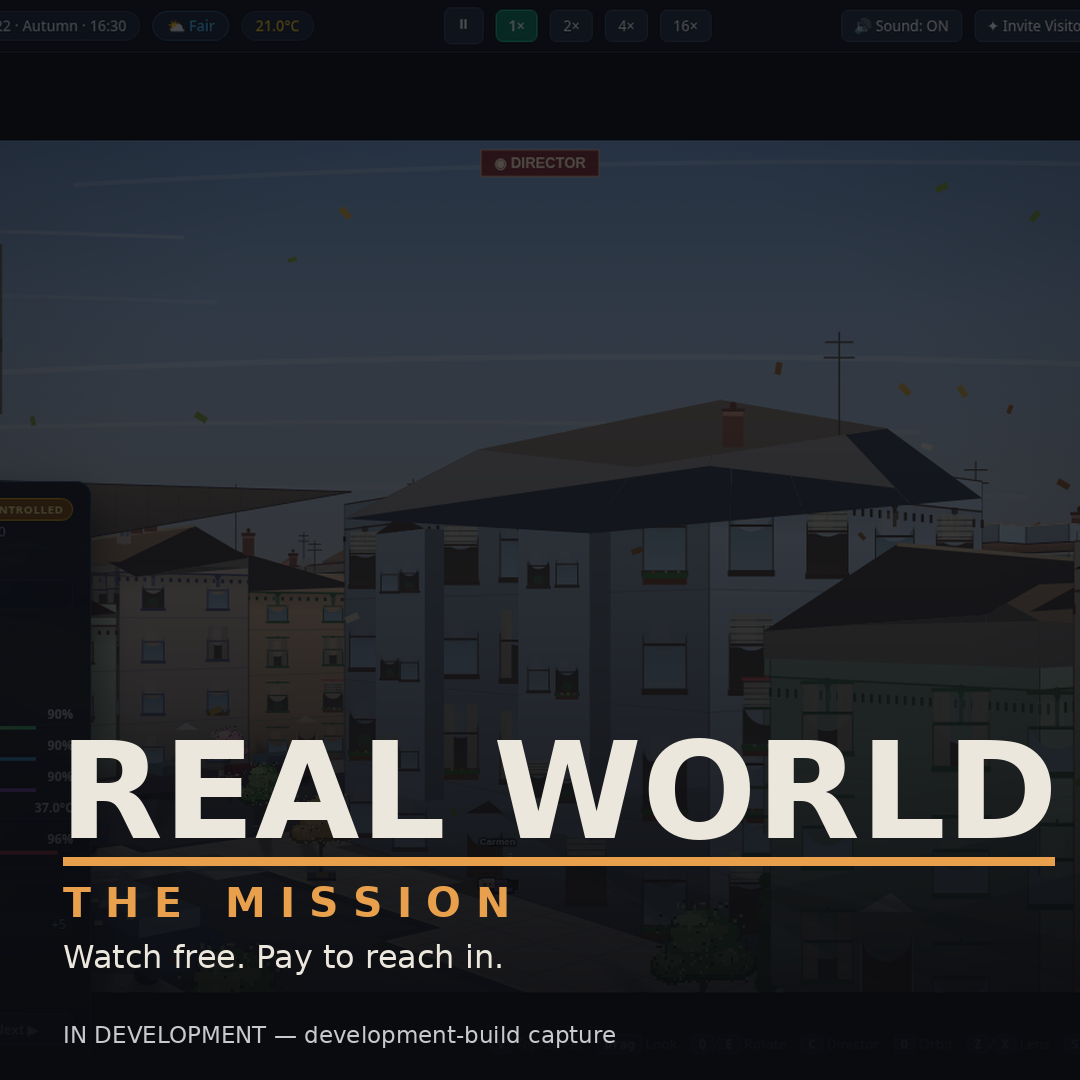
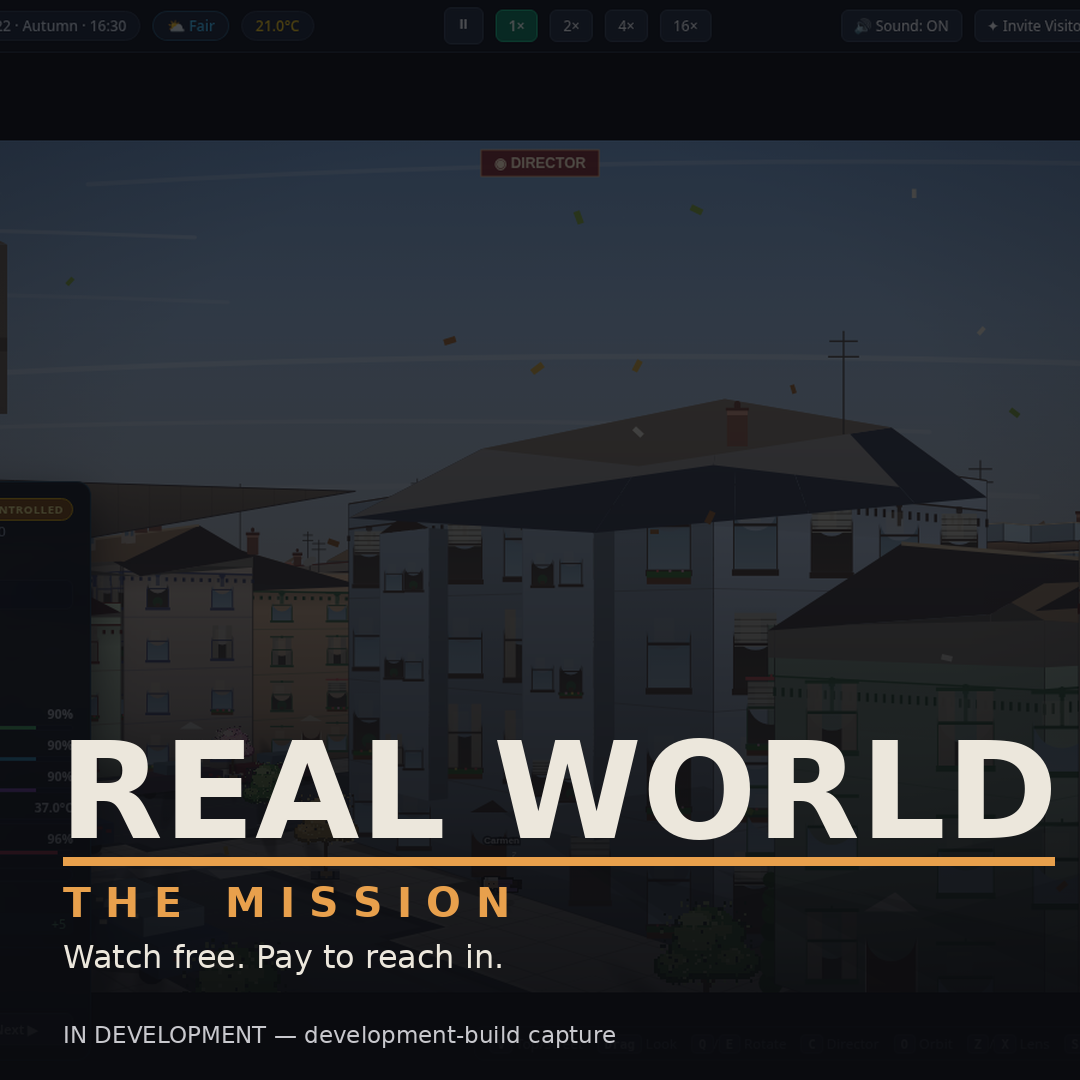
mkt v18: store-copy capsule set + v19 art refresh

diff --git a/marketing/site/index.html b/marketing/site/index.html
@@ -89,7 +89,7 @@
       </div>
     </div>
     <div>
-      <picture><source srcset="shots/v18-D.webp" type="image/webp"><img src="shots/v18-D.png" width="1440" height="900" fetchpriority="high" alt="Director-mode shot over a Mission District block — Victorian rooftops and water towers, development build"></picture>
+      <picture><source srcset="shots/v19-D.webp" type="image/webp"><img src="shots/v19-D.png" width="1440" height="900" fetchpriority="high" alt="Director-mode shot over a Mission District block — Victorian rooftops and water towers, development build"></picture>
       <p class="caption">Director-mode view over the block. Pre-release development build; interface shown is a placeholder.</p>
     </div>
   </div>
@@ -180,10 +180,10 @@
     <h2>The block, as it looks today.</h2>
     <p class="muted">Real captures from the current development build (top-down, follow-cam, director, and interior vignettes) — plus two shots from the first art pass for contrast. Interface elements are placeholder.</p>
     <div class="gallery">
-      <figure><picture><source srcset="shots/v18-A.webp" type="image/webp"><img src="shots/v18-A.png" width="1440" height="900" loading="lazy" decoding="async" alt="Top-down view of the neighborhood around the café block, development build"></picture><figcaption>Top-down over the café block — real street grid, generated addresses.</figcaption></figure>
-      <figure><picture><source srcset="shots/v18-B.webp" type="image/webp"><img src="shots/v18-B.png" width="1440" height="900" loading="lazy" decoding="async" alt="Street-level follow camera behind a resident walking, development build"></picture><figcaption>Follow-cam at street level — residents on their afternoon routines.</figcaption></figure>
-      <figure><picture><source srcset="shots/v18-C.webp" type="image/webp"><img src="shots/v18-C.png" width="1440" height="900" loading="lazy" decoding="async" alt="Top-down view over Dolores Park with paths and palms, development build"></picture><figcaption>Dolores Park from above — the block's back yard.</figcaption></figure>
-      <figure><picture><source srcset="shots/v18-D.webp" type="image/webp"><img src="shots/v18-D.png" width="1440" height="900" loading="lazy" decoding="async" alt="Director-mode low angle over Victorian rooftops, development build"></picture><figcaption>Director mode — the camera treats the neighborhood like a set.</figcaption></figure>
+      <figure><picture><source srcset="shots/v19-A.webp" type="image/webp"><img src="shots/v19-A.png" width="1440" height="900" loading="lazy" decoding="async" alt="Top-down view of the neighborhood around the café block, development build"></picture><figcaption>Top-down over the café block — real street grid, generated addresses.</figcaption></figure>
+      <figure><picture><source srcset="shots/v19-B.webp" type="image/webp"><img src="shots/v19-B.png" width="1440" height="900" loading="lazy" decoding="async" alt="Street-level follow camera behind a resident walking, development build"></picture><figcaption>Follow-cam at street level — residents on their afternoon routines.</figcaption></figure>
+      <figure><picture><source srcset="shots/v19-C.webp" type="image/webp"><img src="shots/v19-C.png" width="1440" height="900" loading="lazy" decoding="async" alt="Top-down view over Dolores Park with paths and palms, development build"></picture><figcaption>Dolores Park from above — the block's back yard.</figcaption></figure>
+      <figure><picture><source srcset="shots/v19-D.webp" type="image/webp"><img src="shots/v19-D.png" width="1440" height="900" loading="lazy" decoding="async" alt="Director-mode low angle over Victorian rooftops, development build"></picture><figcaption>Director mode — the camera treats the neighborhood like a set.</figcaption></figure>
       <figure><picture><source srcset="shots/v16-int-cafe.webp" type="image/webp"><img src="shots/v16-int-cafe.png" width="1440" height="900" loading="lazy" decoding="async" alt="Interior vignette of a corner café — counter, shelves, sun shafts through the window, development build"></picture><figcaption>Inside the café — interior vignettes render behind the storefront glass.</figcaption></figure>
       <figure><picture><source srcset="shots/v16-int-flat.webp" type="image/webp"><img src="shots/v16-int-flat.png" width="1440" height="900" loading="lazy" decoding="async" alt="Interior vignette of a residential flat — furniture and lamplight, development build"></picture><figcaption>A flat interior — where the residents actually live.</figcaption></figure>
       <figure><picture><source srcset="shots/v1-A.webp" type="image/webp"><img src="shots/v1-A.png" width="1440" height="900" loading="lazy" decoding="async" alt="Early first art pass, top-down, development build"></picture><figcaption>First art pass, same overhead angle — kept honest for comparison.</figcaption></figure>

diff --git a/marketing/site/press-kit.html b/marketing/site/press-kit.html
@@ -137,10 +137,10 @@
     </div>
     <h3 style="margin-top:26px">Screenshots (development build)</h3>
     <div class="gallery">
-      <figure><picture><source srcset="shots/v18-A.webp" type="image/webp"><img src="shots/v18-A.png" width="1440" height="900" loading="lazy" decoding="async" alt="Top-down over the café block"></picture><figcaption>Top-down — the café block.</figcaption></figure>
-      <figure><picture><source srcset="shots/v18-B.webp" type="image/webp"><img src="shots/v18-B.png" width="1440" height="900" loading="lazy" decoding="async" alt="Street-level follow camera"></picture><figcaption>Street-level follow-cam.</figcaption></figure>
-      <figure><picture><source srcset="shots/v18-C.webp" type="image/webp"><img src="shots/v18-C.png" width="1440" height="900" loading="lazy" decoding="async" alt="Top-down over Dolores Park"></picture><figcaption>Dolores Park, overhead.</figcaption></figure>
-      <figure><picture><source srcset="shots/v18-D.webp" type="image/webp"><img src="shots/v18-D.png" width="1440" height="900" loading="lazy" decoding="async" alt="Director-mode view of the block"></picture><figcaption>Director mode — the block as film set.</figcaption></figure>
+      <figure><picture><source srcset="shots/v19-A.webp" type="image/webp"><img src="shots/v19-A.png" width="1440" height="900" loading="lazy" decoding="async" alt="Top-down over the café block"></picture><figcaption>Top-down — the café block.</figcaption></figure>
+      <figure><picture><source srcset="shots/v19-B.webp" type="image/webp"><img src="shots/v19-B.png" width="1440" height="900" loading="lazy" decoding="async" alt="Street-level follow camera"></picture><figcaption>Street-level follow-cam.</figcaption></figure>
+      <figure><picture><source srcset="shots/v19-C.webp" type="image/webp"><img src="shots/v19-C.png" width="1440" height="900" loading="lazy" decoding="async" alt="Top-down over Dolores Park"></picture><figcaption>Dolores Park, overhead.</figcaption></figure>
+      <figure><picture><source srcset="shots/v19-D.webp" type="image/webp"><img src="shots/v19-D.png" width="1440" height="900" loading="lazy" decoding="async" alt="Director-mode view of the block"></picture><figcaption>Director mode — the block as film set.</figcaption></figure>
       <figure><picture><source srcset="shots/v16-int-cafe.webp" type="image/webp"><img src="shots/v16-int-cafe.png" width="1440" height="900" loading="lazy" decoding="async" alt="Interior vignette of a corner café"></picture><figcaption>Interior vignette — the café.</figcaption></figure>
       <figure><picture><source srcset="shots/v16-int-flat.webp" type="image/webp"><img src="shots/v16-int-flat.png" width="1440" height="900" loading="lazy" decoding="async" alt="Interior vignette of a residential flat"></picture><figcaption>Interior vignette — a flat.</figcaption></figure>
     </div>

diff --git a/marketing/site/features.html b/marketing/site/features.html
@@ -78,9 +78,9 @@
       </div>
     </div>
     <div class="gallery" style="margin-top:22px">
-      <figure><picture><source srcset="shots/v18-A.webp" type="image/webp"><img src="shots/v18-A.png" width="1440" height="900" loading="lazy" decoding="async" alt="Top-down view of the café block"></picture><figcaption>The café block from above.</figcaption></figure>
-      <figure><picture><source srcset="shots/v18-C.webp" type="image/webp"><img src="shots/v18-C.png" width="1440" height="900" loading="lazy" decoding="async" alt="Top-down view of Dolores Park"></picture><figcaption>Dolores Park — where half the neighborhood's afternoons end up.</figcaption></figure>
-      <figure><picture><source srcset="shots/v18-B.webp" type="image/webp"><img src="shots/v18-B.png" width="1440" height="900" loading="lazy" decoding="async" alt="Street-level follow camera"></picture><figcaption>Street level, follow-cam.</figcaption></figure>
+      <figure><picture><source srcset="shots/v19-A.webp" type="image/webp"><img src="shots/v19-A.png" width="1440" height="900" loading="lazy" decoding="async" alt="Top-down view of the café block"></picture><figcaption>The café block from above.</figcaption></figure>
+      <figure><picture><source srcset="shots/v19-C.webp" type="image/webp"><img src="shots/v19-C.png" width="1440" height="900" loading="lazy" decoding="async" alt="Top-down view of Dolores Park"></picture><figcaption>Dolores Park — where half the neighborhood's afternoons end up.</figcaption></figure>
+      <figure><picture><source srcset="shots/v19-B.webp" type="image/webp"><img src="shots/v19-B.png" width="1440" height="900" loading="lazy" decoding="async" alt="Street-level follow camera"></picture><figcaption>Street level, follow-cam.</figcaption></figure>
       <figure><picture><source srcset="shots/v16-int-cafe.webp" type="image/webp"><img src="shots/v16-int-cafe.png" width="1440" height="900" loading="lazy" decoding="async" alt="Interior vignette of the corner café"></picture><figcaption>Interior vignette — the café where half the block's gossip routes.</figcaption></figure>
     </div>
   </div>

diff --git a/marketing/press-kit/index.html b/marketing/press-kit/index.html
@@ -98,10 +98,10 @@
 <section><div class="wrap">
   <h2>Screenshots — development build</h2>
   <div class="gallery">
-    <figure><img src="screenshots/v18-A.png" alt="Top-down over the café block"><figcaption>Top-down — the café block, murals and parody signage in.</figcaption></figure>
-    <figure><img src="screenshots/v18-B.png" alt="Street-level follow camera"><figcaption>Street-level follow-cam — polychrome trim, fire escapes.</figcaption></figure>
-    <figure><img src="screenshots/v18-C.png" alt="Top-down over Dolores Park"><figcaption>Dolores Park, overhead.</figcaption></figure>
-    <figure><img src="screenshots/v18-D.png" alt="Director-mode view of the block"><figcaption>Director mode — the block as film set.</figcaption></figure>
+    <figure><img src="screenshots/v19-A.png" alt="Top-down over the café block"><figcaption>Top-down — the café block, murals and parody signage in.</figcaption></figure>
+    <figure><img src="screenshots/v19-B.png" alt="Street-level follow camera"><figcaption>Street-level follow-cam — polychrome trim, fire escapes.</figcaption></figure>
+    <figure><img src="screenshots/v19-C.png" alt="Top-down over Dolores Park"><figcaption>Dolores Park, overhead.</figcaption></figure>
+    <figure><img src="screenshots/v19-D.png" alt="Director-mode view of the block"><figcaption>Director mode — the block as film set.</figcaption></figure>
     <figure><img src="screenshots/v16-int-cafe.png" alt="Interior vignette of a corner café"><figcaption>Interior vignette — the café.</figcaption></figure>
     <figure><img src="screenshots/v16-int-flat.png" alt="Interior vignette of a residential flat"><figcaption>Interior vignette — a flat.</figcaption></figure>
     <figure><img src="screenshots/v1-A.png" alt="First art pass, top-down"><figcaption>v1 early pass — before/after coverage.</figcaption></figure>

diff --git a/marketing/site/journal.html b/marketing/site/journal.html
@@ -66,7 +66,7 @@
   <div class="wrap">
     <p class="eyebrow">Latest — devlog</p>
     <article class="card journal-post">
-      <p class="post-meta">Devlog · 2026-09-23 · Development build v18</p>
+      <p class="post-meta">Devlog · 2026-09-23 · Development build v19</p>
       <h2>How the block learned to look like the Mission.</h2>
       <p>
         The first pass at the neighborhood was a flat grid with good bones:
@@ -94,7 +94,7 @@
       </p>
       <div class="gallery" style="margin-top:14px">
         <figure><picture><source srcset="shots/v1-A.webp" type="image/webp"><img src="shots/v1-A.png" width="1440" height="900" loading="lazy" decoding="async" alt="First art pass, top-down over the block"></picture><figcaption>v1 — first pass, overhead.</figcaption></figure>
-        <figure><picture><source srcset="shots/v18-A.webp" type="image/webp"><img src="shots/v18-A.png" width="1440" height="900" loading="lazy" decoding="async" alt="Current build, same overhead angle"></picture><figcaption>v18 — same angle, eighteen iterations later: murals, parody signage, fire escapes.</figcaption></figure>
+        <figure><picture><source srcset="shots/v19-A.webp" type="image/webp"><img src="shots/v19-A.png" width="1440" height="900" loading="lazy" decoding="async" alt="Current build, same overhead angle"></picture><figcaption>v19 — same angle, eighteen iterations later: murals, parody signage, fire escapes.</figcaption></figure>
         <figure><picture><source srcset="shots/v16-int-cafe.webp" type="image/webp"><img src="shots/v16-int-cafe.png" width="1440" height="900" loading="lazy" decoding="async" alt="New interior vignette — café"></picture><figcaption>New in v16 — interiors behind the glass.</figcaption></figure>
       </div>
     </article>

diff --git a/marketing/site/demo.html b/marketing/site/demo.html
@@ -88,8 +88,8 @@
       <div class="demo-fallback">
         <div class="demo-fallback-screen">
           <picture>
-            <source srcset="shots/v18-A.webp" type="image/webp">
-            <img src="shots/v18-A.png" alt="Street-level development capture of the Mission block at golden hour — sunlit facades, long shadows, a resident on the sidewalk." loading="lazy">
+            <source srcset="shots/v19-A.webp" type="image/webp">
+            <img src="shots/v19-A.png" alt="Street-level development capture of the Mission block at golden hour — sunlit facades, long shadows, a resident on the sidewalk." loading="lazy">
           </picture>
           <div class="demo-fallback-overlay">
             <p class="demo-status"><span class="dot" aria-hidden="true"></span> Spectator build not wired in yet</p>

diff --git a/marketing/press-kit/fact-sheet.html b/marketing/press-kit/fact-sheet.html
@@ -94,7 +94,7 @@ theirs.</p>
 <ul>
   <li><b>logos/</b> — primary lockup + icon, SVG and PNG. Amber lit window is the brand mark; don't recolor it.</li>
   <li><b>keyart/</b> — 1920×1080 and 1080×1080 composites built on a real development-build capture.</li>
-  <li><b>screenshots/</b> — real captures of the current development build (v18 series: four block views incl. murals and parody signage + two interior vignettes) plus two early-pass shots (v1) for before/after. Label as "in development."</li>
+  <li><b>screenshots/</b> — real captures of the current development build (v19 series: four block views incl. murals and parody signage + two interior vignettes) plus two early-pass shots (v1) for before/after. Label as "in development."</li>
 </ul>
 
 <h2>Story angles</h2>

diff --git a/marketing/tools/make_brand_assets.py b/marketing/tools/make_brand_assets.py
@@ -19,7 +19,7 @@ from PIL import Image, ImageDraw, ImageFont, ImageFilter
 ROOT = os.path.dirname(os.path.dirname(os.path.abspath(__file__)))
 ASSETS = os.path.join(ROOT, "site", "assets")
 KEYART = os.path.join(ROOT, "press-kit", "keyart")
-SHOT = os.path.join(ROOT, "site", "shots", "v18-D.png")
+SHOT = os.path.join(ROOT, "site", "shots", "v19-D.png")
 
 BG = (20, 22, 28, 255)          # --bg
 PANEL = (29, 32, 41, 255)       # --panel
@@ -143,6 +143,55 @@ def draw_keyart(tw, th, tagline):
     return img
 
 
+def draw_capsule(tw, th, logo=True, tagline=None):
+    """Storefront capsule: keyart base + optional logo/tagline, safe-zone aware.
+
+    Safe-zone rule (STORE-COPY.md §4): title/logo inside central 80%;
+    no prices, no 'free', no review scores on capsules."""
+    shot = Image.open(SHOT).convert("RGB")
+    img = crop_resize(shot, tw, th)
+    grad = Image.new("L", (1, th))
+    for y in range(th):
+        t = y / th
+        a = int(220 * max(0.0, (t - 0.35) / 0.65) ** 1.3)
+        grad.putpixel((0, y), a)
+    grad = grad.resize((tw, th))
+    img = Image.composite(Image.new("RGB", (tw, th), (10, 11, 15)), img, grad)
+    d = ImageDraw.Draw(img)
+    if logo:
+        lock = draw_lockup()
+        lw = int(tw * 0.72)
+        lh = int(lock.height * (lw / lock.width))
+        if lh > th * 0.55:
+            lh = int(th * 0.55)
+            lw = int(lock.width * (lh / lock.height))
+        lock = lock.resize((lw, lh), Image.LANCZOS)
+        img = img.convert("RGBA")
+        img.alpha_composite(lock, (int((tw - lw) / 2 - lw * 0.06),
+                                   int(th * 0.5 - lh * 0.55)))
+        img = img.convert("RGB")
+        d = ImageDraw.Draw(img)
+    if tagline:
+        f_tag = ImageFont.truetype(FONT_R, max(10, int(th * 0.055)))
+        d.text((int(tw * 0.1), int(th * 0.88)), tagline, font=f_tag, fill=TEXT)
+    return img
+
+
+def draw_library_capsule(tw=600, th=900):
+    """600x900 vertical: roofline sky extended above the keyart crop."""
+    img = Image.new("RGB", (tw, th), (10, 11, 15))
+    shot_h = int(th * 0.62)
+    img.paste(crop_resize(Image.open(SHOT).convert("RGB"), tw, shot_h),
+              (0, th - shot_h))
+    lock = draw_lockup()
+    lw = int(tw * 0.8)
+    lh = int(lock.height * (lw / lock.width))
+    lock = lock.resize((lw, lh), Image.LANCZOS)
+    img = img.convert("RGBA")
+    img.alpha_composite(lock, (int((tw - lw) / 2 - lw * 0.06), int(th * 0.16)))
+    return img.convert("RGB")
+
+
 def main():
     os.makedirs(ASSETS, exist_ok=True)
     os.makedirs(KEYART, exist_ok=True)
@@ -159,6 +208,29 @@ def main():
     draw_keyart(1080, 1080,
         "Watch free. Pay to reach in."
         ).save(os.path.join(KEYART, "keyart-square.png"))
+
+    # Storefront capsule set (STORE-COPY.md §4) — regenerated from the
+    # current hero shot so a shot refresh re-bakes every capsule.
+    STORE = os.path.join(ROOT, "store", "capsules")
+    os.makedirs(STORE, exist_ok=True)
+    draw_capsule(630, 500).save(
+        os.path.join(STORE, "itch-cover-630x500.png"))
+    draw_capsule(630, 500).save(
+        os.path.join(ASSETS, "cover-itch-630x500.png"))
+    draw_capsule(460, 215).save(
+        os.path.join(STORE, "steam-header-460x215.png"))
+    draw_capsule(231, 87).save(
+        os.path.join(STORE, "steam-small-231x87.png"))
+    draw_capsule(616, 353).save(
+        os.path.join(STORE, "steam-main-616x353.png"))
+    draw_capsule(374, 448).save(
+        os.path.join(STORE, "steam-vertical-374x448.png"))
+    draw_library_capsule().save(
+        os.path.join(STORE, "steam-library-600x900.png"))
+    bg = draw_capsule(1438, 810, logo=False)
+    bg = bg.filter(ImageFilter.GaussianBlur(6))
+    bg.save(os.path.join(STORE, "steam-page-bg-1438x810.png"),
+            optimize=True)
     print("brand assets written")
 
 

diff --git a/marketing/STORE-COPY.md b/marketing/STORE-COPY.md
@@ -1,6 +1,10 @@
 # Store Copy — Real World ("The Mission")
 
-**Status: v3 — launch-ready draft, 2026-09-22.** Not submitted anywhere. This
+**Status: v18 — launch-ready draft + generated capsule set, 2026-09-23.**
+Not submitted anywhere. Capsule art is now real files under
+`store/capsules/` (see `store/README.md`), regenerated from the current hero
+shot by `tools/make_brand_assets.py` — the only outstanding art dependency
+is the Steam library hero (§4). This
 document is the single source of truth for storefront copy: master copy plus
 per-platform variants (itch.io primary, Steam conditional), field-length
 checks, capsule/hero art specs, disclosure matrix, and a tag plan. All claims
@@ -155,10 +159,24 @@ itch max is ~10 displayed tags; lead with: `life-sim` `simulation` `ai`
 
 | Asset | Spec | Status |
 |---|---|---|
-| Cover image | 630×500 PNG | **Done** — `site/assets/cover-itch-630x500.png` (crop of keyart-square) |
-| Screenshots | ≥3, 16:9 | `press-kit/screenshots/v18-A..D.png` (4 ready) |
+| Cover image | 630×500 PNG | **Done** — `store/capsules/itch-cover-630x500.png` (site copy at `site/assets/cover-itch-630x500.png`) |
+| Screenshots | ≥3, 16:9 | `press-kit/screenshots/v19-A..D.png` (4 ready, grounded-shadow build) |
 | Embed/splash | 1280×720 or auto | `keyart-16x9.png` ready |
 | Social image | OG ≥1200×630 | `site/assets/og-card.png` ready |
+
+### 2.5 itch.io embed / project settings
+
+| Setting | Value |
+|---|---|
+| Embed type | `HTML` — embed the spectator build when it ships (`demo.html` `data-demo-src` is the same slot) |
+| Viewport | 1280×720, "click to run" enabled (lazy-loads the sim, keeps page weight honest) |
+| Fullscreen button | Yes |
+| Mobile-friendly flag | Yes — touch input supported per design |
+| Until the build ships | Publish as a **page-only project** (cover + description + screenshots, no embed) — itch allows non-playable pages; do not fake a build |
+
+Screenshots order on the page: v19-D (director view — the hook), v19-B
+(street level), v19-C (Dolores Park), v16-int-cafe (interior vignette),
+then v19-A and the v1 before/after pair lower down for dev-minded readers.
 
 ---
 
@@ -210,21 +228,24 @@ live request activity.
 Source art: `site/assets/keyart-16x9.png` (1920×1080), `keyart-square.png`
 (1080×1080), `logo-primary.svg`, `logo-icon.svg`. All derivatives generated
 with `tools/make_brand_assets.py` — extend it rather than hand-editing.
+**v18:** every capsule below now exists as a real file in `store/capsules/`
+(manifest: `store/README.md`); rerun the script to re-bake after any art
+refresh.
 
-| Platform | Asset | Size (px) | Notes |
+| Platform | Asset | Size (px) | Status |
 |---|---|---|---|
-| itch.io | Cover image | 630×500 | Crop from keyart-square; title readable at 315×250 thumb |
-| itch.io | Screenshot set | 1280×720+ | v18 series, 4 shots |
-| Steam | Header capsule | 460×215 | Keyart 16:9 crop, logo top-left safe zone |
-| Steam | Small capsule | 231×87 | Logo-icon + wordmark only — screenshots unreadable at this size |
-| Steam | Main capsule | 616×353 | Keyart 16:9 full-bleed |
-| Steam | Vertical capsule | 374×448 | Keyart-square crop, logo centered upper third |
-| Steam | Library capsule | 600×900 | Keyart-square extended vertically (add roofline sky) |
-| Steam | Library hero | 3840×1240 | Needs commission or 2× upscale pass — FLAG: art-track request |
-| Steam | Client logo | transparent PNG | logo-primary.svg export |
-| Steam | Page background | 1438×810 max | Subtle: blurred keyart at 30% — keep under 500 KB |
-| Social | OG / Twitter card | 1200×630 | `og-card.png` done |
-| Social | Avatar | 512×512 | `logo-icon.png` done |
+| itch.io | Cover image | 630×500 | **Done** — `store/capsules/itch-cover-630x500.png` |
+| itch.io | Screenshot set | 1440×900 | **Done** — `press-kit/screenshots/v19-A..D` |
+| Steam | Header capsule | 460×215 | **Done** — `store/capsules/steam-header-460x215.png` |
+| Steam | Small capsule | 231×87 | **Done** — `store/capsules/steam-small-231x87.png` |
+| Steam | Main capsule | 616×353 | **Done** — `store/capsules/steam-main-616x353.png` |
+| Steam | Vertical capsule | 374×448 | **Done** — `store/capsules/steam-vertical-374x448.png` |
+| Steam | Library capsule | 600×900 | **Done** — `store/capsules/steam-library-600x900.png` |
+| Steam | Library hero | 3840×1240 | **FLAG** — needs commission or 2× upscale pass (art-track request) |
+| Steam | Client logo | transparent PNG | **Done** — `store/capsules/steam-client-logo.png` |
+| Steam | Page background | 1438×810 max | **Done** — `store/capsules/steam-page-bg-1438x810.png` (397 KB < 500 KB) |
+| Social | OG / Twitter card | 1200×630 | **Done** — `site/assets/og-card.png` |
+| Social | Avatar | 512×512 | **Done** — `site/assets/logo-icon.png` |
 
 **Safe-zone rule:** keep logo + title inside the central 80% — storefronts
 crop unpredictably. **Text rule:** no prices, no "free", no review scores on
@@ -294,5 +315,9 @@ This file supersedes the v0 DRAFT (single generic template). Changes:
 platform split (itch primary / Steam conditional), capsule spec sheet,
 disclosure matrix, pricing phrasing aligned to the monetization plan's
 PROPOSAL numbers without locking them, and the "what a dollar buys" honesty
-box. Update when: monetization numbers finalize (v8 pricing-page focus),
-Steam wrapper decision made, or the cast/address facts change.
+box. **v18 changes:** capsule spec → generated `store/capsules/` set +
+`store/README.md` manifest, itch.io embed/project-settings table (§2.5),
+screenshot ordering, gallery rebased on the v19 art build (grounded
+pawn/prop shadows). Update when: monetization numbers finalize (v8
+pricing-page focus), Steam wrapper decision made, the library hero lands,
+or the cast/address facts change.

diff --git a/marketing/TRAILER-PLAN.md b/marketing/TRAILER-PLAN.md
@@ -58,10 +58,10 @@ shot sources keyed to §4.
 | # | Time | Shot | Visual | Text / Audio |
 |---|------|------|--------|--------------|
 | 1 | 0:00–0:05 | S1 | Black. A single line of feed text types on: `06:01 — Mars opened the café.` | Sound: room tone, espresso machine fades up. |
-| 2 | 0:05–0:12 | S2 | Top-down dawn over the café block (v18-A framing). Slow drift. Tiny pawns move on real streets. | **[T]** "A neighborhood in San Francisco." |
-| 3 | 0:12–0:19 | S3 | Street-level follow behind a resident walking 24th St (v18-B framing). | **[T]** "Twenty-eight people live here." |
-| 4 | 0:19–0:26 | S4 | Dolores Park overhead, palms and paths (v18-C). Pawns drift toward the grass. | **[T]** "They work. They fall in love. They keep secrets." |
-| 5 | 0:26–0:33 | S5 | Director-mode low orbit over Victorian rooftops, water towers, laundry lines (v18-D). Long shadows. | **[T]** "None of them know you're watching." Music: first swell. |
+| 2 | 0:05–0:12 | S2 | Top-down dawn over the café block (v19-A framing). Slow drift. Tiny pawns move on real streets. | **[T]** "A neighborhood in San Francisco." |
+| 3 | 0:12–0:19 | S3 | Street-level follow behind a resident walking 24th St (v19-B framing). | **[T]** "Twenty-eight people live here." |
+| 4 | 0:19–0:26 | S4 | Dolores Park overhead, palms and paths (v19-C). Pawns drift toward the grass. | **[T]** "They work. They fall in love. They keep secrets." |
+| 5 | 0:26–0:33 | S5 | Director-mode low orbit over Victorian rooftops, water towers, laundry lines (v19-D). Long shadows. | **[T]** "None of them know you're watching." Music: first swell. |
 | 6 | 0:33–0:40 | S6 | Feed overlay (UI capture): entries tick by — a lease signed, a rumor, a shift started. | **[T]** "Watching is free. Always." |
 | 7 | 0:40–0:47 | S7 | Request card UI fills on screen: `REQUEST: rain, 2 h — declared upfront, 12 cr`. Cursor hovers. Approve tick. | **[T]** "Want to reach in? File a request." Sound: a held breath; first thunder. |
 | 8 | 0:47–0:54 | S8 | Same park shot as S4, now raining — wet bake, dark pavement, pawns scatter. | **[T]** "Weather. Events. A character of your own." |
@@ -91,10 +91,10 @@ Capture at 1440×900 or higher, UI hidden unless the shot needs it. Pin
 
 | ID | Framing | Settings | Source of truth |
 |----|---------|----------|-----------------|
-| S2 | Top-down, slow E→W drift over café block | dawn, dry | matches `site/shots/v18-A.png` |
-| S3 | Street-follow behind one walking pawn, 24th St | late afternoon, dry | matches `v18-B.png` |
-| S4 | Top-down Dolores Park, palms + paths | late afternoon, dry | matches `v18-C.png` |
-| S5 | Director-mode low orbit, rooftops/water towers | golden hour | matches `v18-D.png` |
+| S2 | Top-down, slow E→W drift over café block | dawn, dry | matches `site/shots/v19-A.png` |
+| S3 | Street-follow behind one walking pawn, 24th St | late afternoon, dry | matches `v19-B.png` |
+| S4 | Top-down Dolores Park, palms + paths | late afternoon, dry | matches `v19-C.png` |
+| S5 | Director-mode low orbit, rooftops/water towers | golden hour | matches `v19-D.png` |
 | S6 | Public feed overlay, entries ticking | any | game-systems feed API (`__aiBridge` viewer state) |
 | S7 | Request card UI: action + duration + credits | n/a | request pipeline, design doc §11 |
 | S8 | S4 framing repeated, wet bake + rain | rain override | `GS_WX_OVR` weather override exists in the sim |
@@ -166,7 +166,7 @@ center crop is 506×900 — re-capture vertically at ship if quality is short.
 
 ## 8. Thumbnail concepts (pick 1, test later)
 
-1. **The watcher:** v18-D director shot, darkened edges, small red "REC" dot,
+1. **The watcher:** v19-D director shot, darkened edges, small red "REC" dot,
    title small. Sells the Truman-Show premise instantly.
 2. **The handoff:** split frame — same street shot, left labeled `AI`,
    right `YOU`, pawn mid-stride across the seam. Sells the hook mechanic.

diff --git a/marketing/social/drafts/devlog-clips.md b/marketing/social/drafts/devlog-clips.md
@@ -13,7 +13,7 @@ end card "Watch free — {{URL}}".
 ### Clip 1 — "It's always Tuesday for somebody" (T-14 teaser)
 
 - Card: "Somewhere in the Mission District, right now —"
-- Footage: v18-D evening shot, slow push-in. If live capture exists by
+- Footage: v19-D evening shot, slow push-in. If live capture exists by
   launch: a resident crossing the park path at dusk.
 - VO/on-screen text: "twenty-eight people are awake. Working, arguing,
   planning. All fictional. All live."
@@ -22,7 +22,7 @@ end card "Watch free — {{URL}}".
 ### Clip 2 — "How 28 characters share one block" (T-10)
 
 - Card: "How do 28 AI characters share one neighborhood?"
-- Footage: v18-A day shot; overlay dots counting up 1→28 over rooftops.
+- Footage: v19-A day shot; overlay dots counting up 1→28 over rooftops.
 - Text beats: "8 mains — full minds, full storylines" / "20 residents —
   the block's heartbeat" / "one shared world — everyone's watching the
   same Tuesday."
@@ -31,7 +31,7 @@ end card "Watch free — {{URL}}".
 ### Clip 3 — "Every intervention is public" (T-5)
 
 - Card: "This game lets players change the weather. Here's the catch."
-- Footage: v18-B/C; second half: screenshot of the public request feed
+- Footage: v19-B/C; second half: screenshot of the public request feed
   (live capture post-launch; a mock labeled "interface preview" before).
 - Text: "Every request — who filed it, what it costs, what it did — is
   public. A world you can audit."
@@ -40,7 +40,7 @@ end card "Watch free — {{URL}}".
 ### Clip 4 — "Rain on Dolores" (T-2)
 
 - Card: "Someone paid $1.20 to make it rain on Dolores Park."
-- Footage: wet-bake variant shot if published; else v18-C with rain
+- Footage: wet-bake variant shot if published; else v19-C with rain
   caption "requested: rain, 2h."
 - Text: "Requests are priced by the minute. Queued ones refund if they
   never run."

diff --git a/marketing/SEO-PLAN.md b/marketing/SEO-PLAN.md
@@ -82,7 +82,7 @@ in markup today.
 
 | Page | Title (shipped) | Primary keyword | Schema | Notes |
 |---|---|---|---|---|
-| `/` (index.html) | Real World — A Living Neighborhood You Can Watch | truman show game, AI life sim | ✔ VideoGame | Hero shot `v18-D` w/ fetchpriority=high |
+| `/` (index.html) | Real World — A Living Neighborhood You Can Watch | truman show game, AI life sim | ✔ VideoGame | Hero shot `v19-D` w/ fetchpriority=high |
 | `/features.html` | Features — The Cast, The Rules, The Economy \| Real World | AI villagers game | — | Candidate for ItemList of features later |
 | `/cast.html` | The Cast — 8 Main Characters, 20 Neighbors \| Real World | AI characters game, truman show cast | ✔ WebPage | Public profiles only — no drama seeds; venues use canonical parody names |
 | `/how-it-works.html` | How It Works — Watch, Request, Move In \| Real World | persistent AI world | — | 3-step funnel anchors (#watch #request #move-in) |
@@ -195,7 +195,7 @@ Pending (owner-gated, launch):
 - [ ] PENDING — English only; no hreflang, no localization claims
 
 Performance budget: page payload <3MB excluding gallery (gallery is lazy webp);
-one PNG fallback (v18-C, 2.1MB) exceeds 2MB — accepted, it only loads on
+one PNG fallback (v19-C, 2.1MB) exceeds 2MB — accepted, it only loads on
 browsers without webp.
 
 ## 9. Measurement plan
@@ -215,5 +215,5 @@ browsers without webp.
 - **Press hook 3:** "the game whose devlog is written by its NPCs" — recap format.
 - Community seeding post-launch (owner-approved only): life-sim Discords,
   gamedev/AI communities. Draft posts already in `social/drafts/`.
-- Asset hooks that earn embeds: before/after v1→v18 gallery, the public request
+- Asset hooks that earn embeds: before/after v1→v19 gallery, the public request
   feed screenshot, the "same angle, seventeen iterations later" image pair.
